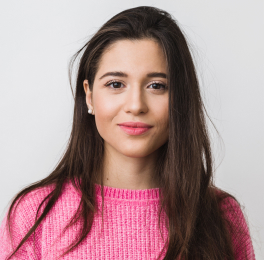
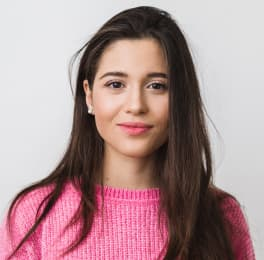
optimized images

diff --git a/index.html b/index.html
@@ -3,7 +3,7 @@
   <head>
     <meta charset="UTF-8" />
     <meta name="viewport" content="width=device-width, initial-scale=1.0" />
-    <title>Document</title>
+    <title>WebStudio</title>
   </head>
   <body>
     <header>
@@ -36,7 +36,7 @@
         <button type="button">Order Service</button>
       </section>
       <section>
-        <h2>hidden</h2>
+        <h2>Benefits</h2>
         <ul>
           <li>
             <h3>Strategy</h3>
